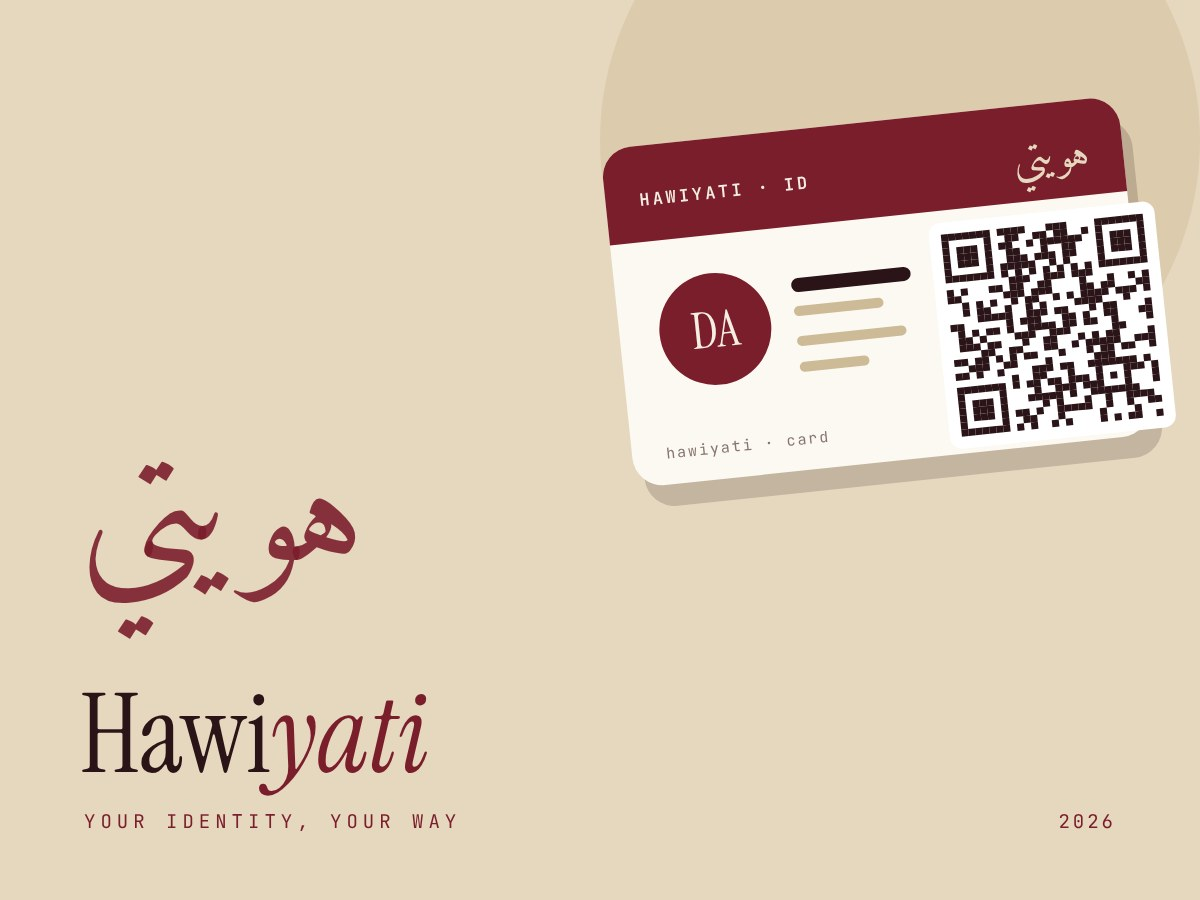
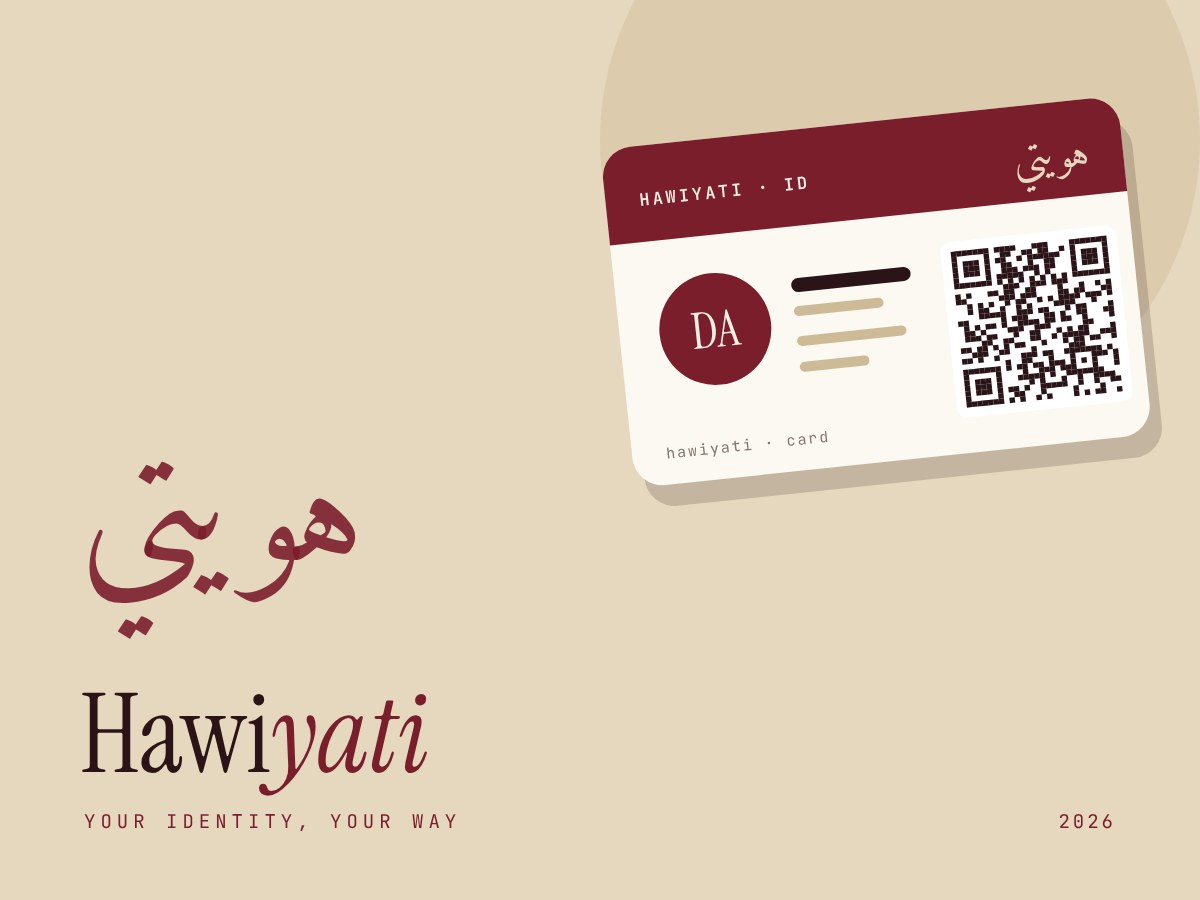
Polish desk section, add profile buttons, tidy certificates, smaller QR

Changed region(s): [[0.7708, 0.2178, 0.9867, 0.4978]]

diff --git a/src/App.jsx b/src/App.jsx
@@ -134,6 +134,11 @@ export default function App() {
             <ul className="facts">
               {facts.map((f) => <li key={f.k}><small>{f.k}</small>{f.v}</li>)}
             </ul>
+            <div className="about-cta">
+              <a className="btn primary" href={links[0].href} target="_blank" rel="noopener noreferrer">GitHub <Arrow /></a>
+              <a className="btn primary" href={links[1].href} target="_blank" rel="noopener noreferrer">LinkedIn <Arrow /></a>
+              <a className="btn" href={`mailto:${me.email}`} target="_blank" rel="noopener noreferrer">Email me <Arrow /></a>
+            </div>
           </div>
           <div className="reveal"><Desk /></div>
         </div>
@@ -179,17 +184,15 @@ export default function App() {
             <figure key={c.level} className="cert reveal">
               <button className="cert-img" onClick={() => setZoom(c)} aria-label={`View ${c.level} certificate full size`}>
                 <img src={src(c.image)} alt={`Fortinet ${c.level} certificate`} loading="lazy" />
-                <span className="tile-ch">{c.level}</span>
               </button>
               <figcaption>
                 <span className="cert-title">{c.title}</span>
                 <span className="cert-meta"><small>Achieved</small>{c.achieved}</span>
-                <span className="cert-meta"><small>Validation no.</small>{c.validation}</span>
+                <span className="cert-meta"><small>Valid until</small>Nov 10, 2028</span>
               </figcaption>
             </figure>
           ))}
         </div>
-        <p className="cert-also reveal"><small>Also</small> IELTS Academic, British Council · Fortinet certificates valid until Nov 2028</p>
       </section>
 
       <section className="contact" id="contact">

diff --git a/src/styles.css b/src/styles.css
@@ -1570,3 +1570,75 @@ a:hover > .arrow {
     justify-content: center;
   }
 }
+
+/* desk polish */
+.cal-title {
+  display: flex;
+  align-items: baseline;
+  gap: 6px;
+}
+.cal-today {
+  font-family: var(--mono);
+  font-size: 10px !important;
+  letter-spacing: 0.08em;
+  text-transform: uppercase;
+  width: auto !important;
+  height: auto !important;
+  border-radius: 999px !important;
+  padding: 3px 8px;
+  margin-left: 4px;
+  color: var(--accent);
+  border: 1px solid currentColor;
+  align-self: center;
+}
+.about-cta {
+  display: flex;
+  flex-wrap: wrap;
+  gap: 10px;
+  margin-top: 30px;
+}
+@media (width<=640px) {
+  .gadget {
+    padding: 12px;
+    border-radius: 24px;
+  }
+  .gadget-label {
+    padding: 2px 6px 10px;
+  }
+  .cal {
+    padding: 14px 14px 12px;
+  }
+  .cal-head strong {
+    font-size: 22px;
+  }
+  .day {
+    aspect-ratio: auto;
+    height: 34px;
+  }
+  .dow {
+    padding: 2px 0 6px;
+  }
+  .hinge {
+    height: 10px;
+    margin: 0 18px;
+  }
+  .calc {
+    padding: 12px;
+  }
+  .lcd {
+    height: 54px;
+  }
+  .lcd-num {
+    font-size: 26px;
+  }
+  .key {
+    height: 42px;
+  }
+  .facts {
+    grid-template-columns: 1fr;
+  }
+  .about-cta .btn {
+    flex: 1 1 auto;
+    justify-content: center;
+  }
+}

diff --git a/src/components/Desk.jsx b/src/components/Desk.jsx
@@ -23,7 +23,12 @@ function Calendar() {
     <div className="cal">
       <div className="cal-head">
         <button onClick={() => shift(-1)} aria-label="Previous month">‹</button>
-        <div><strong>{month}</strong> <span>{view.y}</span></div>
+        <div className="cal-title">
+          <strong>{month}</strong> <span>{view.y}</span>
+          {(view.m !== t.m || view.y !== t.y) && (
+            <button className="cal-today" onClick={() => setView({ y: t.y, m: t.m })}>Today</button>
+          )}
+        </div>
         <button onClick={() => shift(1)} aria-label="Next month">›</button>
       </div>
       <div className="cal-grid">

diff --git a/src/data.js b/src/data.js
@@ -121,21 +121,18 @@ export const certs = [
     title: 'The threat landscape',
     image: 'certs/nse1.jpg',
     achieved: 'Oct 16, 2026',
-    validation: '5883957310DA',
   },
   {
     level: 'NSE 2',
     title: 'Security solutions',
     image: 'certs/nse2.jpg',
     achieved: 'Nov 10, 2026',
-    validation: '1133720043DA',
   },
   {
     level: 'NSE 3',
     title: 'Fortinet products',
     image: 'certs/nse3.jpg',
     achieved: 'Nov 10, 2026',
-    validation: '1506216528DA',
   },
 ]
 
